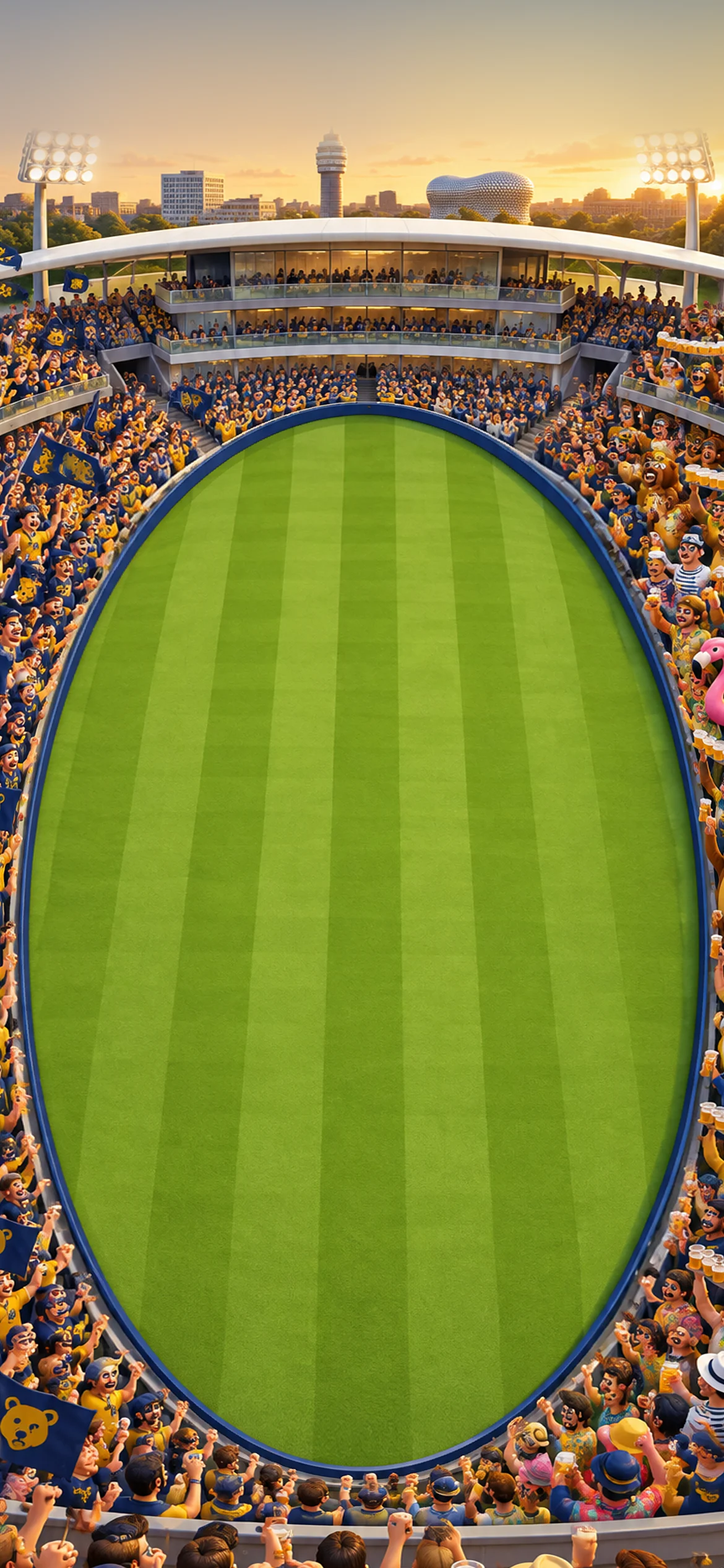
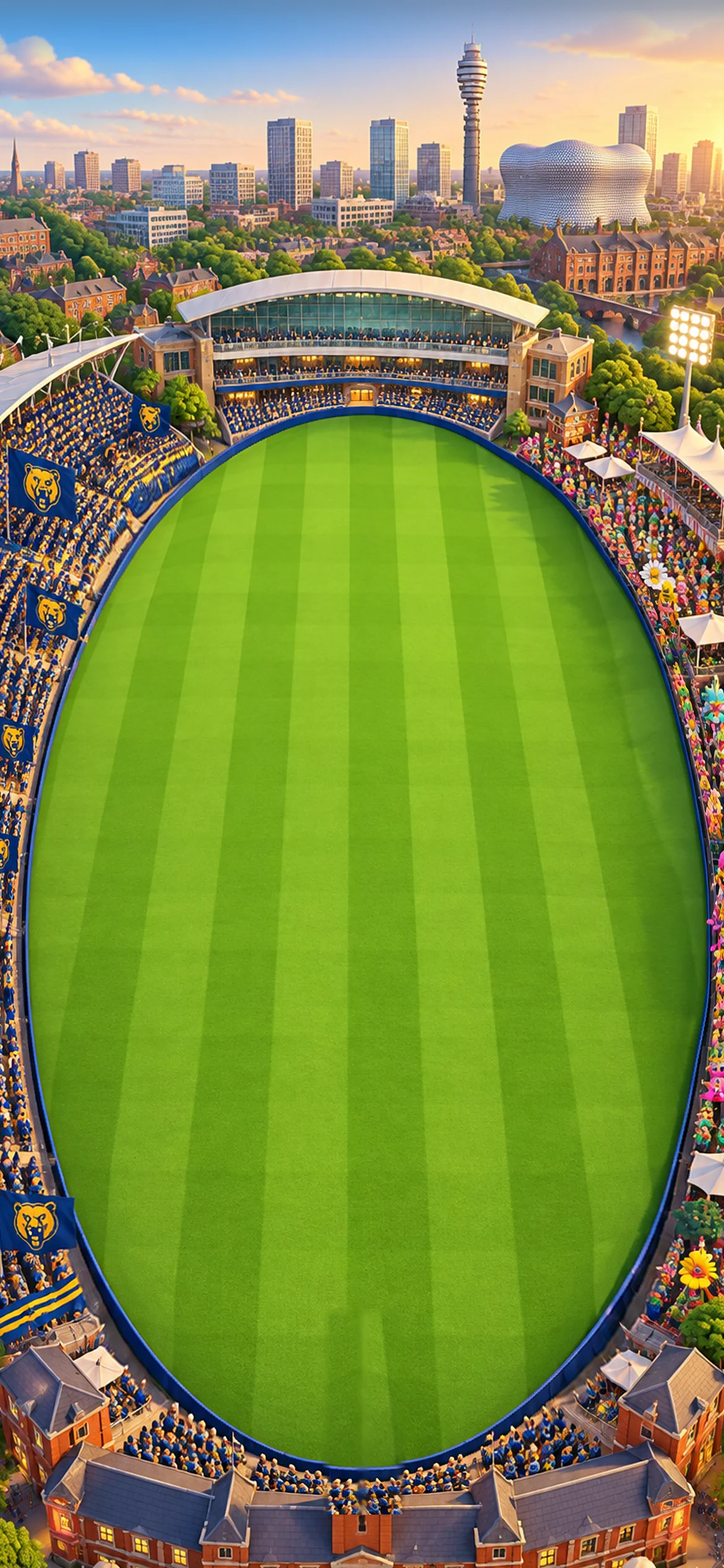
Edgbaston: spec-template Camera 4 plate in the locked art style
Claude-Session: https://claude.ai/code/session_01EnXvJ6P6HcGRxjBSnYPdAU

diff --git a/art/grounds/edgbaston/untower.py b/art/grounds/edgbaston/untower.py
@@ -1,0 +1,21 @@
+# 5.d Edgbaston (416:191): the near-end clock tower rises over the bottom of the coded field. Replace the tower's upper part
+# with the scene one grass-stripe period (221 px) to the side, shifted to follow the PAINTED grass edge (parabola fitted
+# on the columns either side of the tower), feathered. Run on the un-snapped build_clean output, then snap_ring.
+import numpy as np, cv2
+o=cv2.imread('plate.png').astype(np.float32); out=o.copy(); H,W=o.shape[:2]
+hsv=cv2.cvtColor(o.astype(np.uint8),cv2.COLOR_BGR2HSV).astype(int)
+g=(hsv[...,0]>=34)&(hsv[...,0]<=46)&(hsv[...,1]>150)&(hsv[...,2]>95)
+xs=[x for x in range(250,920,5) if not 515<x<665]; ys=[2000+np.where(g[2000:,x])[0].max() for x in xs]
+p=np.polyfit(xs,ys,2); edge=lambda x: np.polyval(p,x)
+x0,x1,y0,y1,F,P=520,656,2110,2445,16,221
+for x in range(x0,x1):
+  sx=x-P if x<W/2 else x+P
+  dy=int(round(edge(x)-edge(sx)))
+  col=o[y0-dy:y1-dy,sx]
+  w=min(1,(x-x0)/F,(x1-1-x)/F)
+  vy=np.minimum(1,np.minimum(np.arange(y1-y0)/F,(y1-y0-1-np.arange(y1-y0))/F))[:,None]
+  ww=w*np.maximum(vy,(np.arange(y1-y0)[:,None]<(y1-y0-F))*1.0) if False else w*np.clip(np.minimum(np.arange(y1-y0)/F,1),0,1)[:,None]
+  out[y0:y1,x]=o[y0:y1,x]*(1-ww)+col*ww
+m=np.zeros((H,W),np.float32); m[y0:y1,W//2-8:W//2+8]=1; m=cv2.GaussianBlur(m,(0,0),4)[...,None]
+out=out*(1-m)+cv2.GaussianBlur(out,(0,0),2.5)*m
+cv2.imwrite('plate.png',out.clip(0,255).astype(np.uint8))

diff --git a/art/grounds/edgbaston/build_clean.py b/art/grounds/edgbaston/build_clean.py
@@ -5,7 +5,7 @@
 import numpy as np, cv2
 from measure import measure
 W,H=1170,2532; cx,cy,rx,ry=.5*W,.6*H,.46*W,.335*H
-img=cv2.imread('raw/plate_413-191.png').astype(np.float32); ex,ey,ew,eh=np.load('ell.npy')
+img=cv2.imread('raw/plate_416-191.png').astype(np.float32); ex,ey,ew,eh=np.load('ell.npy')
 def make(sx,sy,dx=0,dy=0):
   up=cv2.resize(img,(round(img.shape[1]*sx),round(img.shape[0]*sy)),interpolation=cv2.INTER_CUBIC)
   ox=int(round(ex*sx-cx+dx)); oy=int(round(ey*sy-cy+dy))
@@ -28,4 +28,4 @@ for a in np.arange(0.95,1.04,0.01):
         if best is None or e<best[0]: best=(e,a,b,dx,dy)
 print('best',best,'stretch y/x',round(sy0*best[2]/(sx0*best[1]),3))
 o=make(sx0*best[1],sy0*best[2],best[3],best[4])
-o=cv2.addWeighted(o,1.12,cv2.GaussianBlur(o,(0,0),2),-0.12,0); cv2.imwrite('plate.png',o)
+cv2.imwrite("plate_raw_fit.png",o); o=cv2.addWeighted(o,1.12,cv2.GaussianBlur(o,(0,0),2),-0.12,0); cv2.imwrite('plate.png',o)

diff --git a/art/grounds/ART_PACKAGE.md b/art/grounds/ART_PACKAGE.md
@@ -62,3 +62,4 @@ Plate Figma 411:191 (tall canvas, spec field wording + even-crowd + thin-board w
 Board 411:192 red-brick piers + riveted navy iron, gold rims, dark navy panels; locked via build_locked_boards.py ('edgbaston', chaseFrom score, top bear dropped). Props 411:193 / words 411:194 cut with art/grounds/edgbaston/cut.py (magenta). SIX! pink sheen neutralised. Pitch ct 86 cb 801 wb 376. Extras: pigeons, bear flag, bear-suit fan. Scene th_edgbaston.
 Nov 2 v2 (Joe: left crowd same size): plate Figma 412:191 with 'left and right stands exactly the same size of chunky readable fans' wording; ratio 1.596 → build_clean stretch 1.008 → snap_ring max 24 → measure max 0.7. v1 kept as plate_v1.png.
 Nov 2 v3 (Joe: use the closer camera): Camera 2 medium-close plate Figma 413:191 — chunky fans all round, only the pavilion roof + a strip of evening sky/towers at the top. Ratio 1.855 → build_clean vertical squash .86, sky above filled from the plate's own top rows (no borrowed sky) → snap_ring max 24 → measure max 0.8. v1/v2 kept as plate_v1.png / plate_v2.png.
+Nov 2 v4 (Joe: back to further away, keep to the spec + art style): full PROMPTS.md template (STYLE LOCK / ART STYLE / Camera 4 FAR / section 1 field + tight stadium + screen zones) plus a crowd-scale line → Figma 416:191 (414:191 rejected: chunky Hollies fans + giant foreground heads). The near-end clock tower rose over the bottom of the coded field: untower.py swaps its top for the scene one stripe period to the side, before snap_ring. measure max 5.1 p90 1.3. v3 (Camera 2) kept as plate_v3.png.
